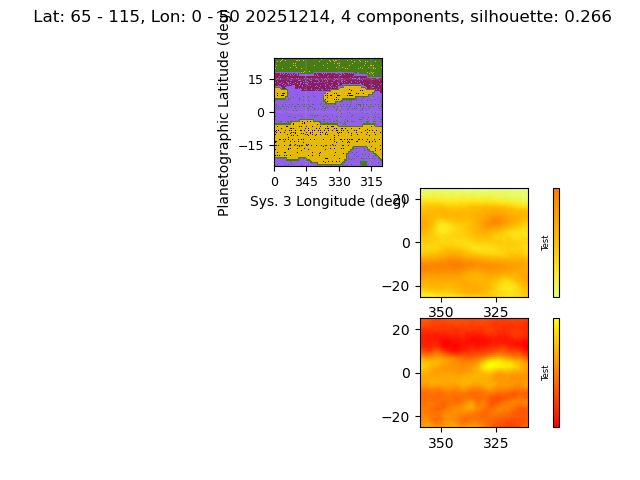
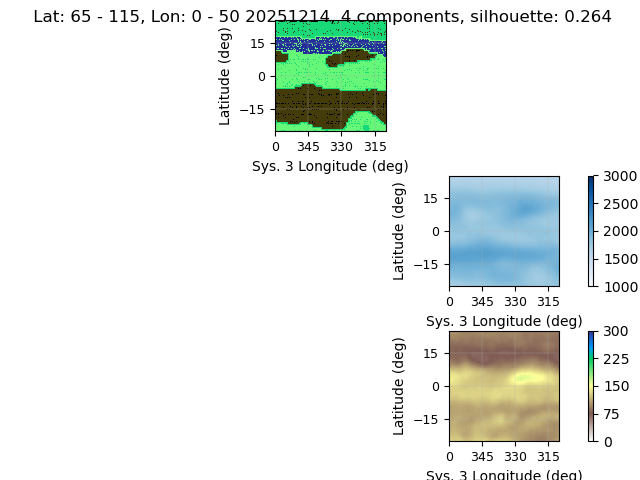
add plot formatting

diff --git a/scripts/processes.py b/scripts/processes.py
@@ -19,8 +19,8 @@ def output_cluster_map_and_plot(date, keywords, param_ranges, n_comp = 5, cov_ty
     cmap = ListedColormap(colors)
 
     fig, axis = pl.subplots(2, 1)
-    MP.create_cluster_map(axis[0], date, n_comp, pred, input_arr, subset_shape, sil_score, latRng, lngRng, cmap, cm_num)
-    PL.create_cluster_plot(axis[1], date, keywords, input_arr, pred, sil_score, n_comp, cov_type, latRng, lngRng, cmap, cm_num)
+    MP.create_cluster_map(axis[0], n_comp, pred, input_arr, subset_shape, latRng, lngRng, cmap, cm_num)
+    PL.create_cluster_plot(axis[1],  keywords, input_arr, pred,  n_comp, cov_type, latRng, lngRng, cmap, cm_num)
     fig.suptitle(f' Lat: {latRng[0]} - {latRng[1]}, Lon: {lngRng[0]} - {lngRng[1]} {date}, {n_comp} components, silhouette: {sil_score}')
     lat_lon_str = f'{latRng[0]}-{latRng[1]}_{lngRng[0]}-{lngRng[1]}'
     fig.savefig(f'{config["output"]}/{date}_{lat_lon_str}_{n_comp}.png')
@@ -33,7 +33,7 @@ def output_cluster_map(date, keywords, param_ranges, n_comp = 5, cov_type = "ful
     colors = np.random.rand(n_comp, 3)
     cmap = ListedColormap(colors)
     fig, axis = pl.subplots(1, 1)
-    MP.create_cluster_map(axis, date, n_comp, pred, input_arr, subset_shape, sil_score, latRng, lngRng, cmap, cm_num)
+    MP.create_cluster_map(axis, n_comp, pred, input_arr, subset_shape, latRng, lngRng, cmap, cm_num)
     fig.suptitle(f' Lat: {latRng[0]} - {latRng[1]}, Lon: {lngRng[0]} - {lngRng[1]} {date}, {n_comp} components, silhouette: {sil_score}')
     lat_lon_str = f'{latRng[0]}-{latRng[1]}_{lngRng[0]}-{lngRng[1]}'
     fig.savefig(f'{config["output"]}/cluster_maps/spatial_map_{date}_{lat_lon_str}_{n_comp}.png')
@@ -50,94 +50,28 @@ def output_cluster_plot(date, keywords, param_ranges, n_comp = 5, cov_type = "fu
     colors = np.random.rand(n_comp, 3)
     cmap = ListedColormap(colors)
     fig, axis = pl.subplots(1, 1)
-    PL.create_cluster_plot(axis, date, keywords, input_arr, pred, sil_score, n_comp, cov_type, latRng, lngRng, cmap, cm_num)
+    PL.create_cluster_plot(axis, keywords, input_arr, pred,  n_comp, cov_type, latRng, lngRng, cmap, cm_num)
     fig.suptitle(f' Lat: {latRng[0]} - {latRng[1]}, Lon: {lngRng[0]} - {lngRng[1]} {date}, {n_comp} components, silhouette: {sil_score}')
     lat_lon_str = f'{latRng[0]}-{latRng[1]}_{lngRng[0]}-{lngRng[1]}'
     fig.savefig(f'{config["output"]}/cluster_plots/clusters_{date}_{lat_lon_str}_{cov_type}_{n_comp}_.png')
 
 
-def plot_patch(patch,LatLims,LonLims, colorscale,axis,
-               cbarplot=True,cbar_title="Test",cbar_reverse=False,vn=0.10,vx=0.20,n=6):
-    """
-    Purpose:
-        To plot a map patch with appropriate latitude and longitude scales,
-        and, optionally, a color bar
-
-    Parameters
-    ----------
-    patch : TYPE
-        DESCRIPTION.
-    LatLims : TYPE
-        DESCRIPTION.
-    LonLims : TYPE
-        DESCRIPTION.
-    CM2 : TYPE
-        DESCRIPTION.
-    LonRng : TYPE
-        DESCRIPTION.
-    colorscale : TYPE
-        DESCRIPTION.
-    axis : TYPE
-        DESCRIPTION.
-    cbarplot : TYPE, optional
-        DESCRIPTION. The default is True.
-    cbar_title : TYPE, optional
-        DESCRIPTION. The default is "Test".
-    cbar_reverse : TYPE, optional
-        DESCRIPTION. The default is False.
-    vn : TYPE, optional
-        DESCRIPTION. The default is 0.10.
-    vx : TYPE, optional
-        DESCRIPTION. The default is 0.20.
-    n : TYPE, optional
-        DESCRIPTION. The default is 6.
-
-    Returns
-    -------
-    None.
-
-    """
-    import numpy as np
-    import pylab as pl
-
-    np.nan_to_num(patch, copy=False, nan=0.0, posinf=0.0, neginf=0.0)
-    tx=np.linspace(vn,vx,n,endpoint=True)
-    #vmin=vn,vmax=vx,
-    show=axis.imshow(patch, colorscale, origin='upper',  
-               extent=[360-LonLims[0],360-LonLims[1],90-LatLims[1],
-                       90-LatLims[0]],
-                       aspect="equal")
-
-    im_ratio = patch.shape[0]/patch.shape[1]
-    if cbarplot:
-        cbar = pl.colorbar(show, ticks=tx, 
-                   orientation='vertical',cmap='gist_heat',
-                   ax=axis,fraction=0.046*im_ratio, pad=0.05)
-        cbar.ax.set_yticklabels(np.around(tx,3))
-        cbar.ax.tick_params(labelsize=6,color="k")#if iSession >1:
-        cbar.ax.set_ylabel(cbar_title,size=6)#,labelpad=-20, y=0.5)
-        #cbar.ax.yaxis.set_label_coords(-1.5, 0.5)
-        cbar.ax.yaxis.set_label_coords(-2.1, 0.5)
-        if cbar_reverse:
-            cbar.ax.invert_yaxis()
-
-    return patch,vn,vx,tx
-
 
 
 def create_map_comparison(date, keywords, param_ranges, n_comp = 5, cov_type = "full", 
-                           latRng = [65, 115], lngRng = [0, 50], cm_num = 3):
+                           latRng = [65, 115], lngRng = [0, 360], cm_num = 3):
     [input_arr, subset_shape] = pre.get_input_array(keywords, param_ranges, latRng, lngRng, cm_num)
     pred = CL.create_clusters(input_arr[:, [0,1]], cov_type, n_comp)
     sil_score = str(round(silhouette_score(input_arr, pred), 3))
     colors = np.random.rand(n_comp, 3)
     cmap = ListedColormap(colors)
-    fig, axis = pl.subplots(3, 1)
+    fig, axis = pl.subplots(3, 1, constrained_layout = True)
+    fig.tight_layout()
     cloud_map = pre.get_patch("PCld", latRng, lngRng)
     amm_map = pre.get_patch("NH3", latRng, lngRng)
-    MP.create_cluster_map(axis[0], date, n_comp, pred, input_arr, subset_shape, sil_score, latRng, lngRng, cmap, cm_num)
-    plot_patch(cloud_map, latRng, lngRng, "Wistia", axis[1])
-    plot_patch(amm_map, latRng, lngRng, "autumn", axis[2])
+    MP.create_cluster_map(axis[0], n_comp, pred, input_arr, subset_shape, latRng, lngRng, cmap, cm_num)
+    MP.plot_patch(cloud_map, latRng, lngRng, "Blues", axis[1], 1000, 3000,  "Cloud Pressure", cm_num, fig, True)
+    MP.plot_patch(amm_map, latRng, lngRng, "terrain_r", axis[2], 0, 300, "Ammonia", cm_num, fig, True)
     fig.suptitle(f' Lat: {latRng[0]} - {latRng[1]}, Lon: {lngRng[0]} - {lngRng[1]} {date}, {n_comp} components, silhouette: {sil_score}')
     lat_lon_str = f'{latRng[0]}-{latRng[1]}_{lngRng[0]}-{lngRng[1]}'
     fig.savefig(f'{config["output"]}/{date}_{lat_lon_str}_{n_comp}_comparison.png')
@@ -148,6 +82,6 @@ def create_map_comparison(date, keywords, param_ranges, n_comp = 5, cov_type = "
 create_map_comparison("20251214", ["NH3", "PCld"], [[0, 300], [1000, 3000]], 4)#
 
 
-#output_cluster_map("20251214", ["NH3", "PCld"], [[0, 300], [1000, 3000]], 5)
+#output_cluster_map_and_plot("20251214", ["NH3", "PCld"], [[0, 300], [1000, 3000]], 5)
 #output_cluster_plot("20251214", ["NH3", "PCld"], [[0, 300], [1000, 3000]], 5)
     

diff --git a/scripts/plots/mapping.py b/scripts/plots/mapping.py
@@ -17,40 +17,61 @@ def create_axis(axs3, LatLims, LonLims, LonSys):
     axs3.set_xticklabels(xticklabels.astype(int))
     axs3.set_yticks(np.linspace(-45,45,7), minor=False)
     axs3.tick_params(axis='both', which='major', labelsize=9)
-    axs3.set_ylabel("Planetographic Latitude (deg)",fontsize=10)
+    axs3.set_ylabel("Latitude (deg)",fontsize=10)
     axs3.set_xlabel("Sys. "+ str(LonSys) +" Longitude (deg)",fontsize=10)
  
     axs3.set_adjustable('box') 
     return axs3
 
-def plot_patch(patch, LatLims, LonLims, axis, cmap, n_comp):
+def plot_patch(patch, LatLims, LonLims, cmap, axis, v_min, v_max, title, cm_num, fig = None, cbarplot = False, cbar_title = "test"):
     '''
     Purpose:
         to plot a patch with appropriate longitude/latitude scales
     '''
-    vn = 0
-    vx = n_comp 
+    vn = v_min
+    vx = v_max
+    #fdvactor here
     n = vx - vn
-    cmap.set_under('black')
+    create_axis(axis, [LatLims[0] - 90, 90 - LatLims[1]], LonLims,  cm_num)
     np.nan_to_num(patch, copy=False, nan=-1.0, posinf=0.0, neginf=0.0)
-    tx=np.linspace(vn,vx,n,endpoint=True)
+    tx=np.linspace(vn,vx,5 ,endpoint=True)
     
 
     show=axis.imshow(patch,  origin='upper', cmap = cmap, vmin=vn,vmax=vx,  
                extent=[360-LonLims[0],360-LonLims[1],90-LatLims[1],
                        90-LatLims[0]],
                        aspect="equal")
+    #axis.set_title(title, pad = 15)
 
     im_ratio = patch.shape[0]/patch.shape[1]
+    
+    if cbarplot:
+        cbar = fig.colorbar(show, ticks=tx, 
+                   orientation='vertical',
+                   ax=axis,fraction=0.046*im_ratio, pad=0.05)
+        #cbar.ax.set_yticklabels(np.around(tx,3))
+
+
+        #cbar.set_ticks(tx)
+        #cbar.set_ticklabels(np.around(tx, 3))
+        #cbar.ax.tick_params(labelsize=6,color="k")#if iSession >1:
+        #cbar.ax.set_ylabel(cbar_title, size=6)#,labelpad=-20, y=0.5)
+
+
+        #cbar.ax.yaxis.set_label_coords(-1.5, 0.5)
+        #cbar.ax.yaxis.set_label_coords(-2.1, 0.5)
+        #if cbar_reverse:
+        #    cbar.ax.invert_yaxis()
 
     
-def create_cluster_map(axis, date, n_comp, pred, input_arr, subset_shape, sil_score,
+def create_cluster_map(axis,  n_comp, pred, input_arr, subset_shape, 
                            latRng, lngRng, cmap, cm_num = 3):
    
     cluster_map = create_cluster_arr(input_arr, subset_shape, pred)
-    create_axis(axis, [latRng[0] - 90, 90 - latRng[1]], lngRng,  cm_num)
-    plot_patch(cluster_map, latRng, lngRng, axis, cmap, n_comp)
-  
+    
+    cmap.set_under("black")
+    plot_patch(cluster_map, latRng, lngRng,  cmap, axis,  0, n_comp, "cluster map", cm_num)
+
 
 
 
@@ -66,5 +87,10 @@ def create_cluster_arr(input_arr, subset_shape, pred):
         oned_mapped_clusters[index] = cluster
     mapped_clusters = oned_mapped_clusters.reshape(subset_shape)
     return mapped_clusters
+
+
+
+
+
 
 

diff --git a/scripts/plots/plots.py b/scripts/plots/plots.py
@@ -6,7 +6,7 @@ import scripts.clustering.clusters as CL
 import numpy as np
 
 
-def create_cluster_plot(ax, date, keywords, input_arr, pred, sil_score, n_comp, cov_type, 
+def create_cluster_plot(ax, keywords, input_arr, pred, n_comp, cov_type, 
                         latRng, lngRng, cmap, cm_num = 3
                         ):
  
